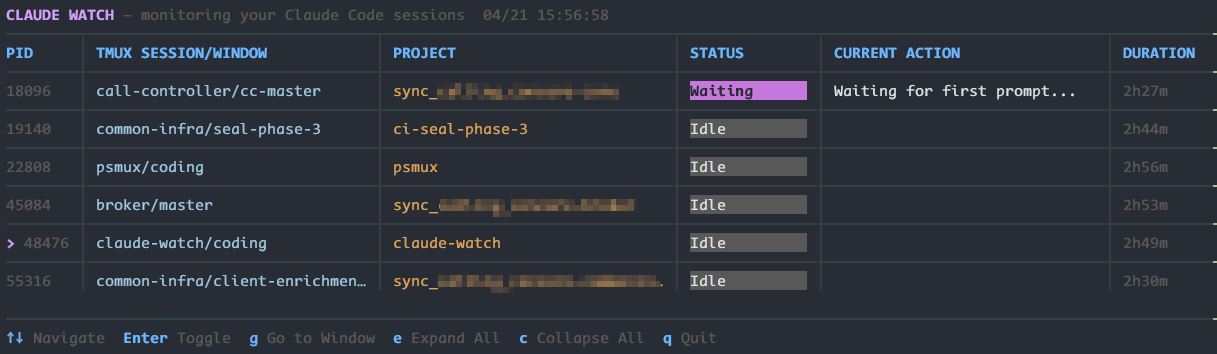
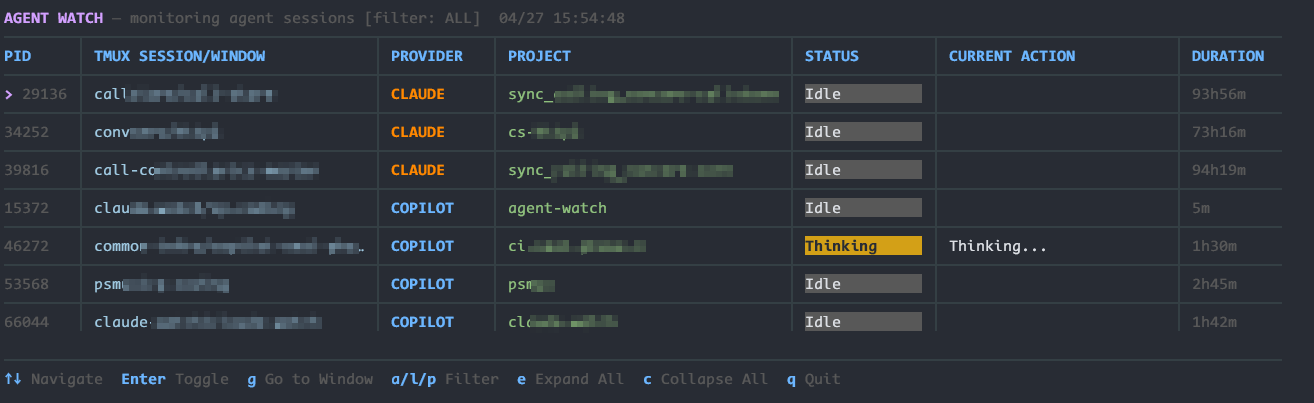
Update screenshots and align Claude color

diff --git a/internal/ui/dashboard.go b/internal/ui/dashboard.go
@@ -21,7 +21,7 @@ var (
 	titleStyle     = lipgloss.NewStyle().Bold(true).Foreground(lipgloss.Color("#D4A0FF")) // Soft purple/lavender
 	colHeaderStyle = lipgloss.NewStyle().Bold(true).Foreground(lipgloss.Color("#6CB6FF")) // Soft blue
 	separatorStyle = lipgloss.NewStyle().Foreground(lipgloss.Color("240"))
-	projectStyle   = lipgloss.NewStyle().Foreground(lipgloss.Color("#E0A458"))           // Warm amber
+	projectStyle   = lipgloss.NewStyle().Foreground(lipgloss.Color("#8EC07C"))           // Soft green
 	promptStyle    = lipgloss.NewStyle().Foreground(lipgloss.Color("#7DC4A3"))            // Soft mint/teal
 	responseStyle  = lipgloss.NewStyle().Foreground(lipgloss.Color("#A0A0D0"))            // Soft lavender
 	tmuxStyle      = lipgloss.NewStyle().Foreground(lipgloss.Color("#9EC8E0"))            // Soft cyan
@@ -32,7 +32,7 @@ var (
 	helpKeyStyle   = lipgloss.NewStyle().Bold(true).Foreground(lipgloss.Color("#6CB6FF")) // Soft blue for keys
 	helpTextStyle  = lipgloss.NewStyle().Foreground(lipgloss.Color("240"))                // Gray for descriptions
 	providerStyles = map[string]lipgloss.Style{
-		"CLAUDE":  lipgloss.NewStyle().Foreground(lipgloss.Color("#D4A0FF")).Bold(true),
+		"CLAUDE":  lipgloss.NewStyle().Foreground(lipgloss.Color("#FF8800")).Bold(true),
 		"COPILOT": lipgloss.NewStyle().Foreground(lipgloss.Color("#6CB6FF")).Bold(true),
 		"UNKNOWN": lipgloss.NewStyle().Foreground(lipgloss.Color("240")),
 	}

diff --git a/README.md b/README.md
@@ -6,10 +6,6 @@ Run `agent-watch` and instantly see what all your running sessions are doing -- 
 
 ![agent-watch collapsed view](screenshot1-collapsed.png)
 
-Expand any row to preview the last prompt and Claude's latest response without leaving the dashboard:
-
-![agent-watch expanded view](screenshot2-expanded.png)
-
 ## How it works
 
 agent-watch discovers running agent processes from the OS process list, matches each to its most recent session transcript, and renders a continuously-updating dashboard.